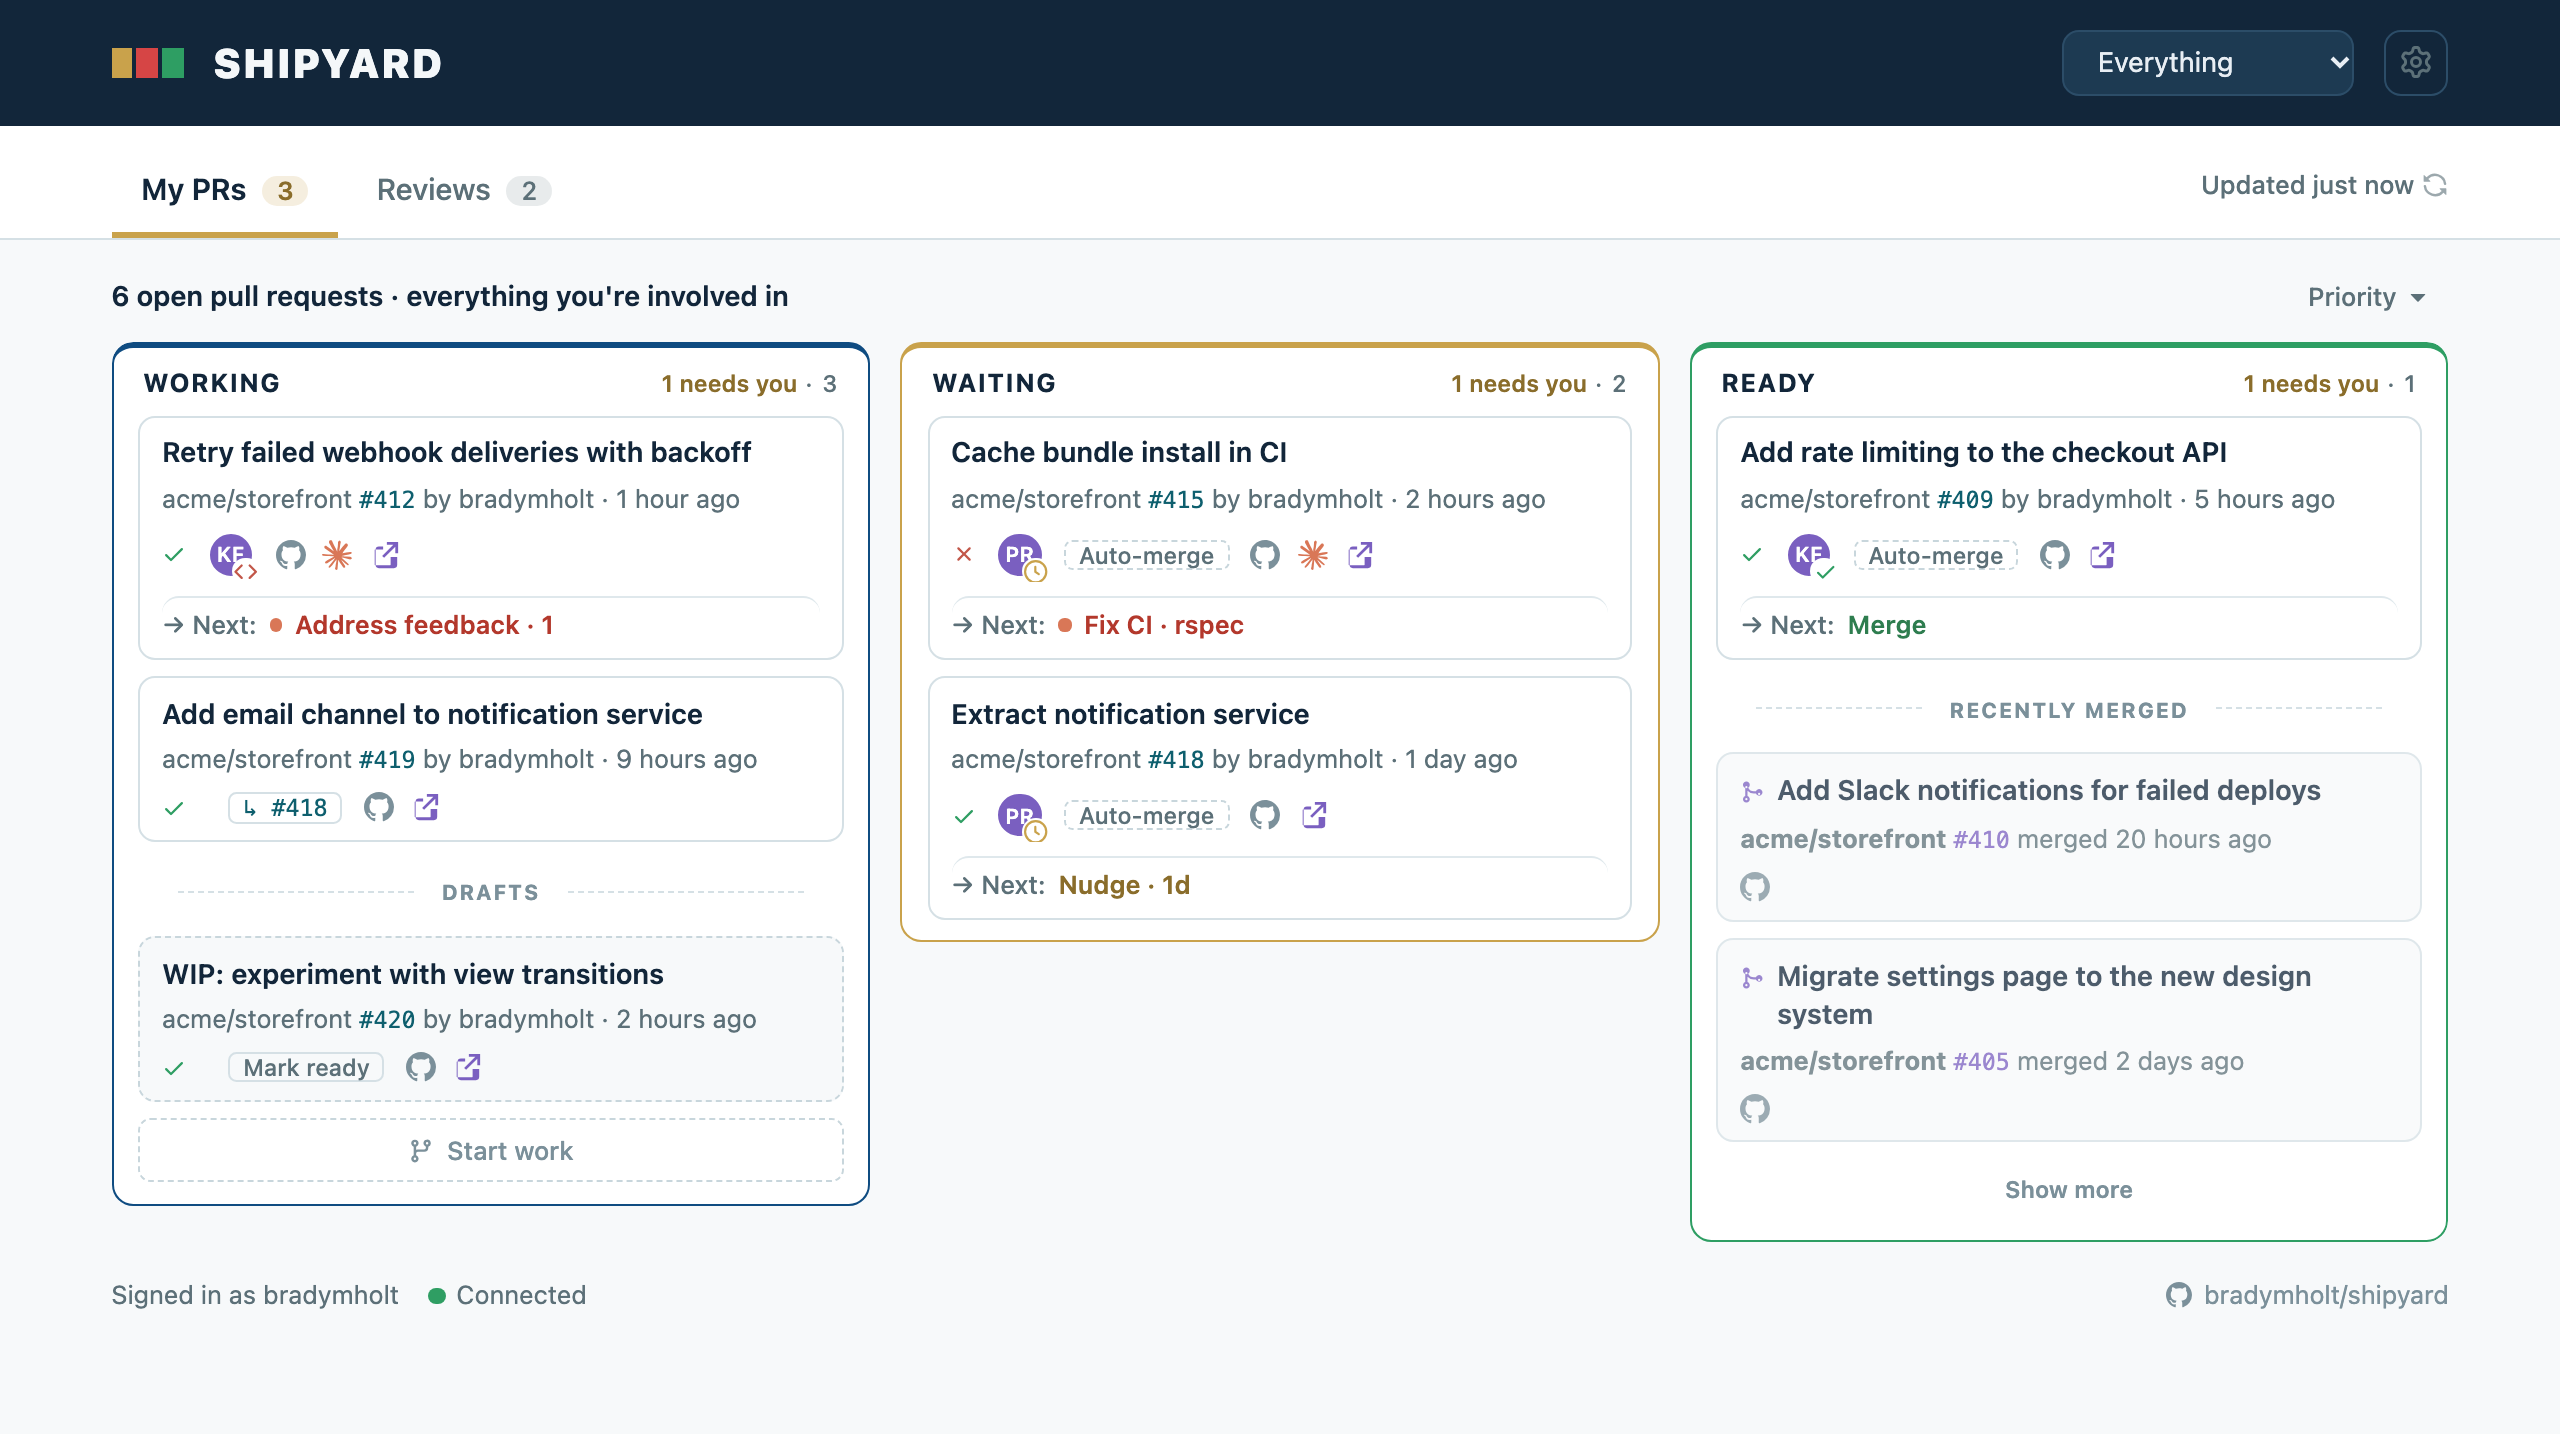
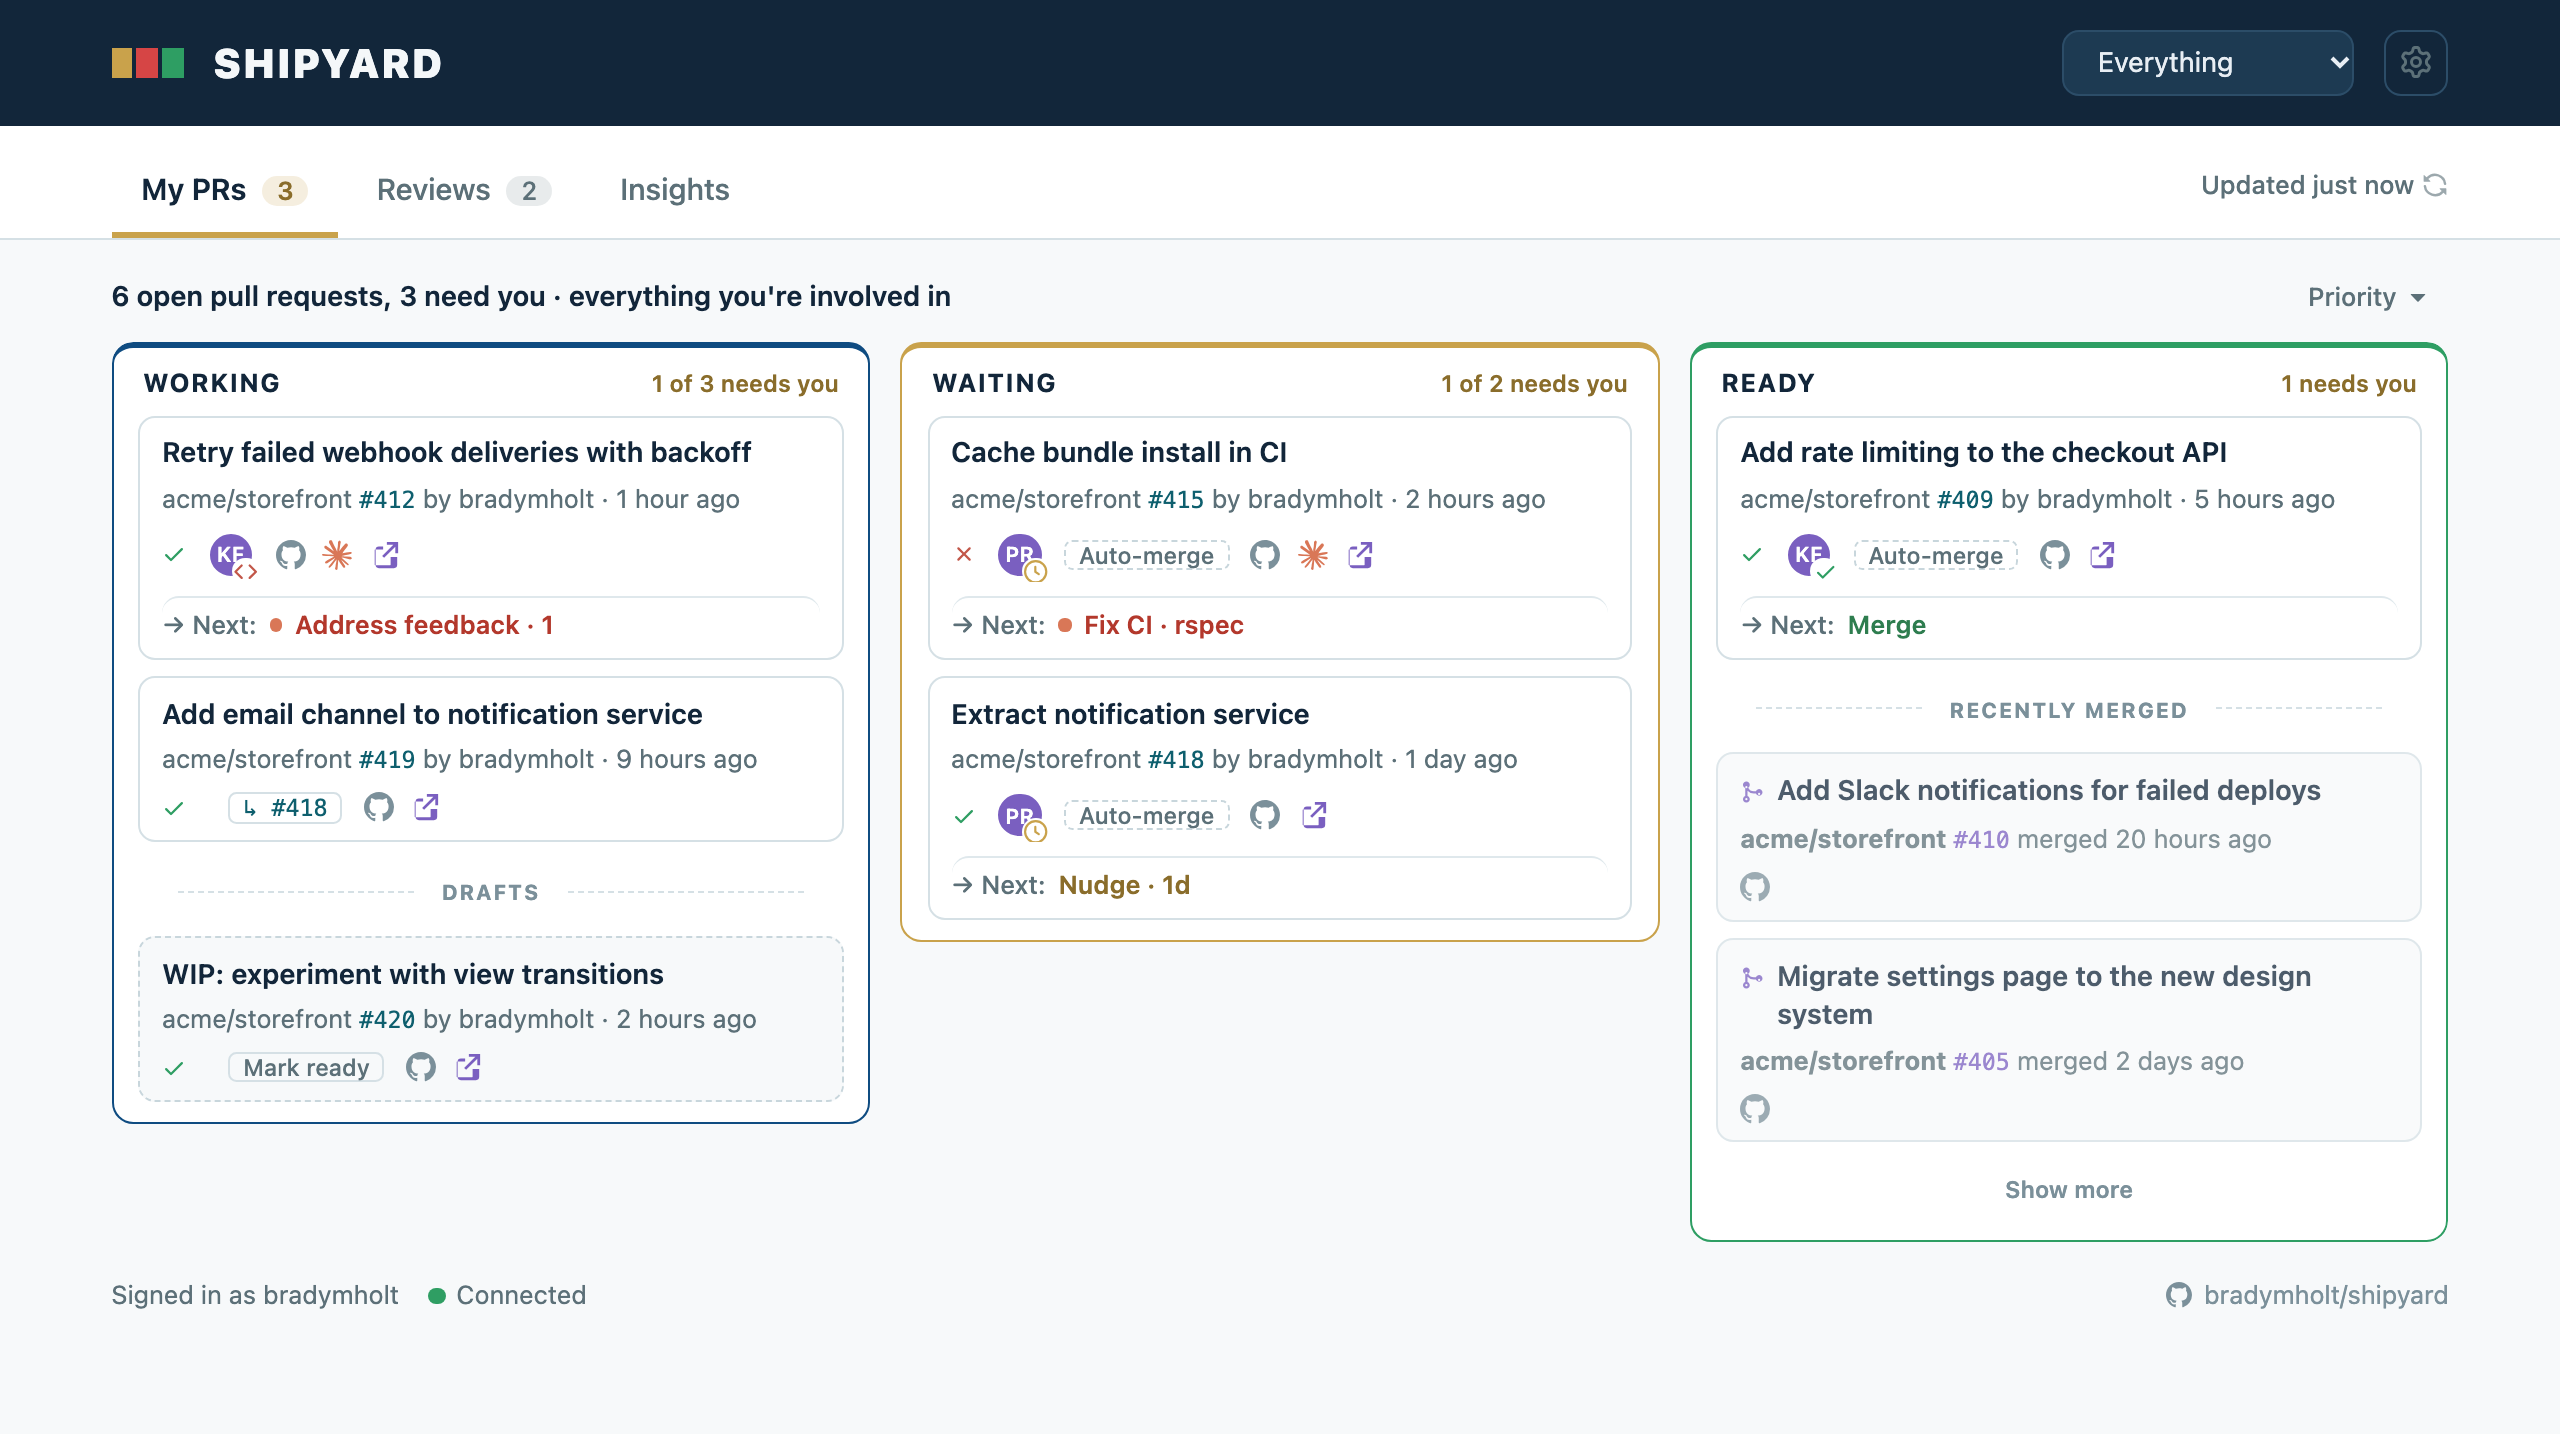
Say what the board's counts mean, and rename the Reviews lane
"Waiting" meant waiting on a reviewer on My PRs and waiting on you on
Reviews; the Reviews lane is now "To review". Lane headers read "1 of 3
needs you" instead of "1 needs you · 3", and the title carries the same
number as the tab badge ("6 open pull requests, 3 need you").

diff --git a/js/board.js b/js/board.js
@@ -9,7 +9,7 @@ import { maybeShowWelcome } from "./welcome.js";
 import { closeSidebar, openSidebar, PASS_LABELS, renderSidebar, sessionTarget, sidebarKey } from "./sidebar.js";
 
 const laneEmptyText = (name, reviewBoard) => reviewBoard
-  ? (name === "Waiting" ? "You're all caught up" : "Nothing reviewed yet")
+  ? (name === "To review" ? "You're all caught up" : "Nothing reviewed yet")
   : ({ Working: "Nothing in progress", Waiting: "Nothing awaiting review", Ready: "Nothing ready to merge" }[name] || "Nothing here");
 
 function reviewerHtml(login, avatarUrl, stateClass, stateIcon, title) {
@@ -232,7 +232,7 @@ function worktreeLinks(pr) {
 // repo's review queue scoped to the PR's column (still waiting on you vs. reviewed).
 // Merged items (from Recently merged) carry mergedAt, so scope those to is:closed —
 // they're no longer open and wouldn't show under the open filter.
-// A dismissed review lands in Waiting but has no matching search qualifier, so it
+// A dismissed review lands in To review but has no matching search qualifier, so it
 // falls back to reviewed-by:@me — the one list GitHub will actually return it in.
 function repoPullsUrl(pr) {
   const base = `https://github.com/${pr.repository?.nameWithOwner || ""}/pulls`;
@@ -462,7 +462,7 @@ function renderBoard() {
   const laneItems = reviewBoard ? [[], []] : [[], [], []];
   for (const pr of matches) laneItems[reviewBoard ? reviewLaneOf(pr) : laneOf(pr)].push(pr);
   const defs = reviewBoard
-    ? [["Waiting", "yellow"], ["Review submitted", "green"]]
+    ? [["To review", "yellow"], ["Review submitted", "green"]]
     : [["Working", "blue"], ["Waiting", "yellow"], ["Ready", "green"]];
   const recentMerged = mergedItems();
   let html = `<div class="board${reviewBoard ? " two-lane" : ""}">` + defs.map(([name, color], i) => {
@@ -509,12 +509,13 @@ function renderBoard() {
       laneHtml += `<button type="button" class="snoozed-toggle" aria-expanded="${open}" data-snoozed-lane="${esc(laneKey)}"><span>${snoozedCount} snoozed${LANE_CHEVRON}</span></button>`;
       if (open) laneHtml += renderGroup(isSnoozed);
     }
-    const needsLabel = (n) => n ? `<span class="lane-needs">${n} need${n === 1 ? "s" : ""} you</span>` : "";
     if (i === (reviewBoard ? 1 : 2) && recentMerged.length) {
       laneHtml += '<div class="merged-divider"></div>' + mergedSection(recentMerged, mergedCard);
     }
-    const needs = needsLabel(state.serverState ? stepsFor(inLane) : 0);
-    const laneCount = `<span class="lane-count">${needs && `${needs} · `}${inLane.length}</span>`;
+    const needs = state.serverState ? stepsFor(inLane) : 0;
+    const laneCount = `<span class="lane-count">${needs
+      ? `<span class="lane-needs">${needs}${needs < inLane.length ? ` of ${inLane.length}` : ""} need${needs === 1 ? "s" : ""} you</span>`
+      : inLane.length}</span>`;
     const collapsible = narrowViewport.matches;
     const collapsed = collapsible && collapsedLanes.has(laneKey);
     const header = collapsible
@@ -538,9 +539,9 @@ function renderBoard() {
       : '<div class="loading"><div class="spinner"></div>Loading pull requests…</div>';
     return;
   }
-  const titleLabel = state.filter === "review"
-    ? `${count} review pull request${count === 1 ? "" : "s"}`
-    : `${count} open pull request${count === 1 ? "" : "s"}`;
+  const needs = reviewBoard ? reviewCount : mineCount;
+  const titleLabel = `${count} ${reviewBoard ? "review" : "open pull request"}${count === 1 ? "" : "s"}`
+    + (needs ? `, ${needs} need${needs === 1 ? "s" : ""} you` : "");
   $("#list-title").innerHTML = `${titleLabel} · ${targetLink}`;
   listBody.innerHTML = html || `<div class="empty">${EMPTY_ICON}<span>No pull requests match.</span></div>`;
 }

diff --git a/js/prs.js b/js/prs.js
@@ -252,6 +252,6 @@ export function isUnseen(pr) {
 
 export function stageOf(pr) {
   if (pr.mergedAt) return "Merged";
-  if (isReviewPr(pr)) return reviewLaneOf(pr) === 0 ? "Waiting on you" : "Review submitted";
+  if (isReviewPr(pr)) return reviewLaneOf(pr) === 0 ? "To review" : "Review submitted";
   return pr.isDraft ? "Draft" : ["Working", "Waiting", "Ready"][laneOf(pr)];
 }
